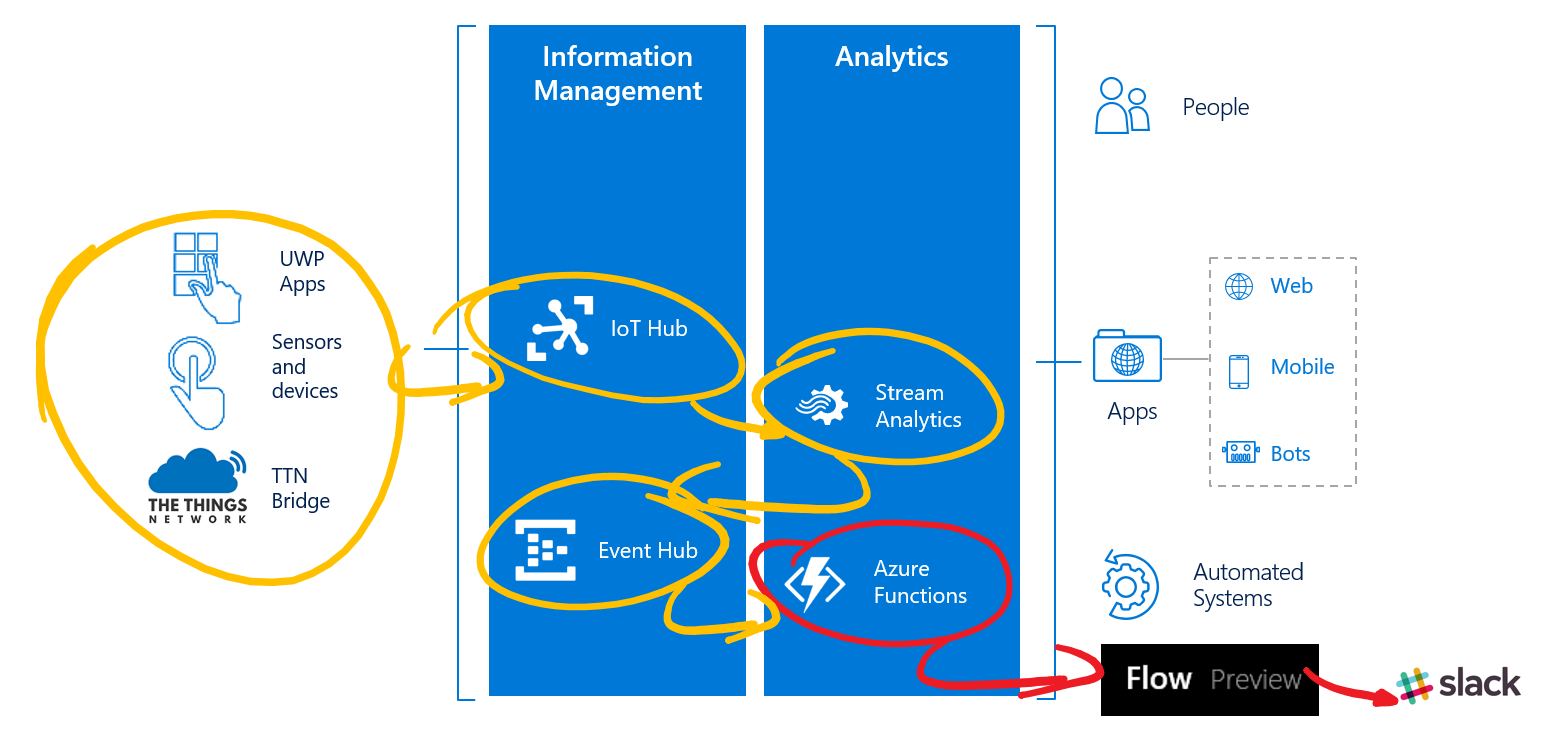
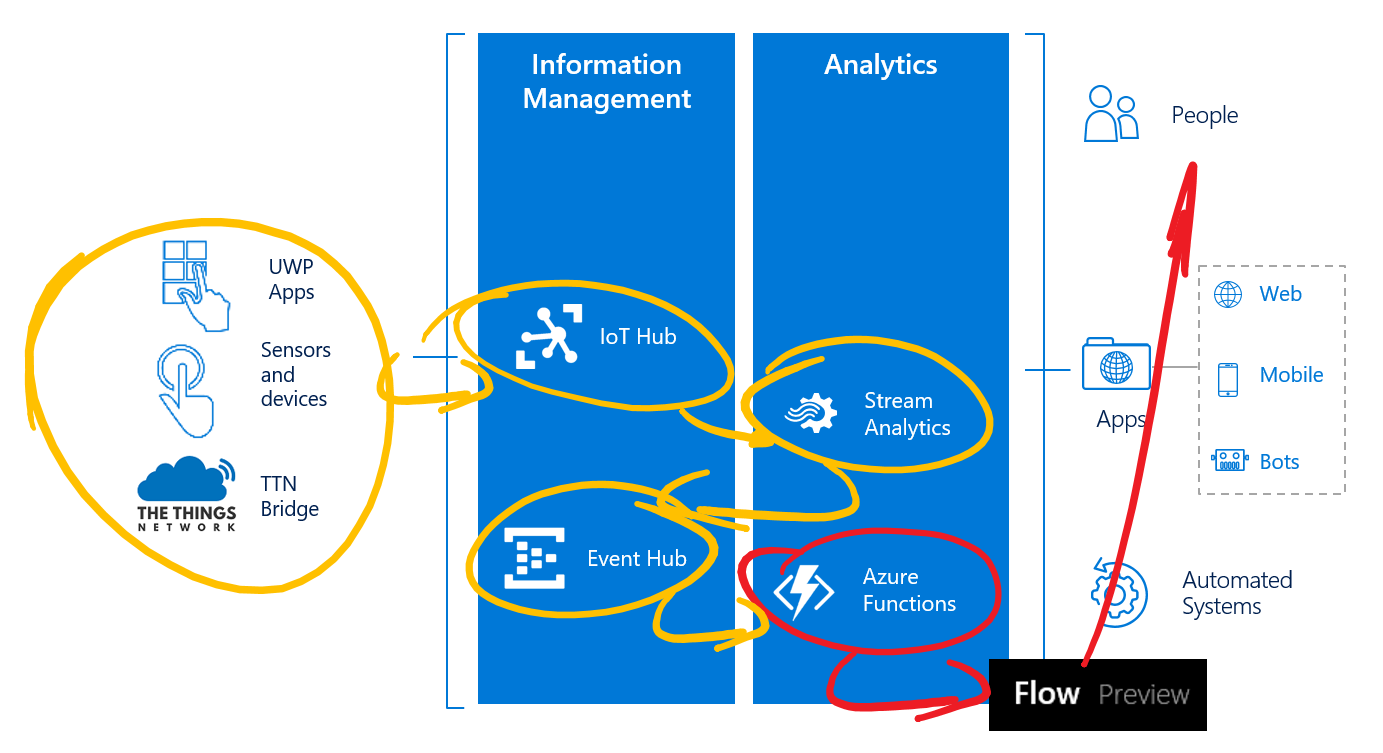
Flow intro

Changed region(s): [[0.0622, 0.03, 0.9949, 0.9891], [0.0, 0.3597, 0.0622, 0.6594], [0.8706, 0.5695, 0.9328, 0.6594]]

diff --git a/Flow.md b/Flow.md
@@ -1,8 +1,10 @@
-# Pushing telemetry messages to Slack
+# Pushing telemetry messages to Microsoft Flow and beyond
 
-This is an example of how messages from Azure Functions can be passed to an external service, eg. Slack, using Microsoft Flow. 
+This is an example of how messages from Azure Functions can be passed to an external service, eg. Mail, using Microsoft Flow. 
 
 Microsoft Flow is a brand new SaaS offering, available today in preview, for automating workflows across the growing number of applications and SaaS services that business users rely on. How much time do we spend sifting through streams of messages for the few notifications that matter? How much manual labor is spent transferring information from one place to another, or entering data into tracking systems? Too often these tasks are done manually, or not done at all.
+
+We will pass the telemetry to an email address provided by you.
 
 ![alt tag](img/arch/flow-overview.png)
 
@@ -21,4 +23,10 @@ Microsoft Flow is a brand new SaaS offering, available today in preview, for aut
 
 Follow these steps to create an endpoint in Microsoft Flow to send telemetry data to. From there we can use the data in an "If Then Else" flow.
 
-1. 
+*Note: If you have no account yet, please sign up first (You can sign up for free using the button at the top of the page).*
+
+1. Log into the [Microsoft flow portal](https://portal.azure.com/). You will be asked to provide Azure credentials if needed
+
+![alt tag](img/flow-introduction.png)
+
+2. 
